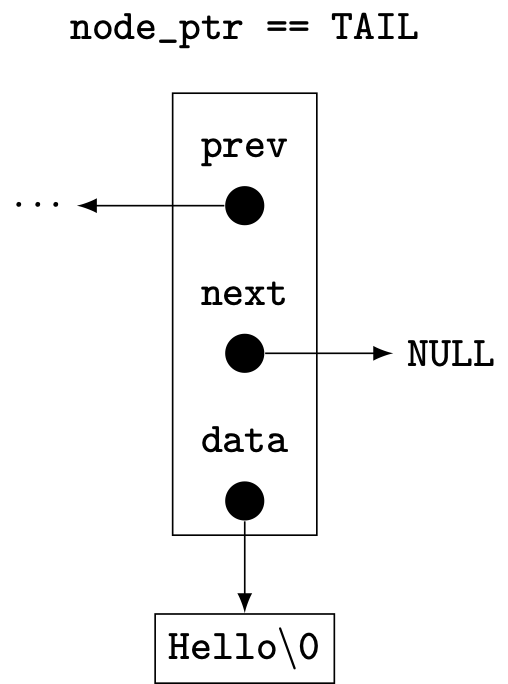
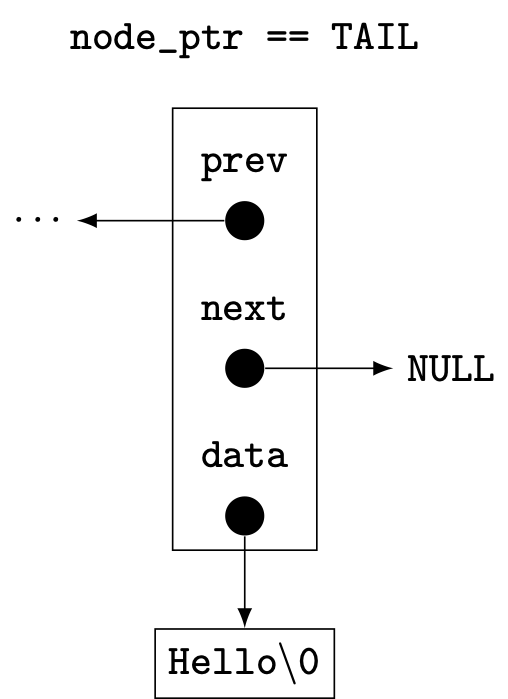
Updates for Friday delivery of lecture 13.

diff --git a/2024/figures/doubly_ll/case3_after.tex b/2024/figures/doubly_ll/case3_after.tex
@@ -32,7 +32,7 @@
       \node[data] at (0,-1.25) (#1 data) {};
       \node[data label] at (0,-0.75) (#1 data label) {data\strut};
 
-      \node[node label,fit={(#1 prev) (#1 prev label) (#1 next) (#1 next label) (#1 data) (#1 data label)},label={[label distance=0.25cm]#2}] (#1) {};
+      \node[node label,fit={(#1 prev) (#1 prev label) (#1 next) (#1 next label) (#1 data) (#1 data label)},label={[label distance=0.25cm]#2\strut}] (#1) {};
     }
   }
 }
@@ -43,7 +43,7 @@
 \begin{tikzpicture}
   \pic at (0,0) {llnode=node_ptr/{node_ptr}};
 
-  \pic at (2,0) {llnode=new_node/{}};
+  \pic at (2,0) {llnode=new_node/{new_node}};
 
   \pic at (4,0) {llnode=new_node2/{}};
 

diff --git a/2024/src/lecture13/double_linked_list.c b/2024/src/lecture13/double_linked_list.c
@@ -34,7 +34,7 @@ struct StringNode *insertNodeRight(struct StringNode *node_ptr, const char *str)
 struct StringNode *insertNodeLeft(struct StringNode *node_ptr, const char *str) {
     struct StringNode *new_node = malloc(sizeof(struct StringNode));  // allocate memory to store new node
     assert(new_node);
-    new_node->data = malloc(sizeof(char) * (strlen(str) + 1));
+    new_node->data = malloc(sizeof(char) * (strlen(str) + 1));        // allocate memory to store string data
     assert(new_node->data);
     strcpy(new_node->data, str);
     if (node_ptr != NULL) {

diff --git a/2024/figures/doubly_ll/case1_after.tex b/2024/figures/doubly_ll/case1_after.tex
@@ -31,7 +31,7 @@
       \node[data] at (0,-1.25) (#1 data) {};
       \node[data label] at (0,-0.75) (#1 data label) {data\strut};
 
-      \node[node label,fit={(#1 prev) (#1 prev label) (#1 next) (#1 next label) (#1 data) (#1 data label)},label={[label distance=0.25cm]#2}] (#1) {};
+      \node[node label,fit={(#1 prev) (#1 prev label) (#1 next) (#1 next label) (#1 data) (#1 data label)},label={[label distance=0.25cm]#2\strut}] (#1) {};
     }
   }
 }

diff --git a/2024/figures/doubly_ll/case1_before.tex b/2024/figures/doubly_ll/case1_before.tex
@@ -28,7 +28,7 @@
       \node[data] at (0,-1.25) (#1 data) {};
       \node[data label] at (0,-0.75) (#1 data label) {data\strut};
 
-      \node[node label,fit={(#1 prev) (#1 prev label) (#1 next) (#1 next label) (#1 data) (#1 data label)},label={[label distance=0.25cm]#1}] (#1) {};
+      \node[node label,fit={(#1 prev) (#1 prev label) (#1 next) (#1 next label) (#1 data) (#1 data label)},label={[label distance=0.25cm]#1\strut}] (#1) {};
     }
   }
 }

diff --git a/2024/figures/doubly_ll/case2_after.tex b/2024/figures/doubly_ll/case2_after.tex
@@ -32,7 +32,7 @@
       \node[data] at (0,-1.25) (#1 data) {};
       \node[data label] at (0,-0.75) (#1 data label) {data\strut};
 
-      \node[node label,fit={(#1 prev) (#1 prev label) (#1 next) (#1 next label) (#1 data) (#1 data label)},label={[label distance=0.25cm]#2}] (#1) {};
+      \node[node label,fit={(#1 prev) (#1 prev label) (#1 next) (#1 next label) (#1 data) (#1 data label)},label={[label distance=0.25cm]#2\strut}] (#1) {};
     }
   }
 }

diff --git a/2024/figures/doubly_ll/case2_before.tex b/2024/figures/doubly_ll/case2_before.tex
@@ -31,7 +31,7 @@
       \node[data] at (0,-1.25) (#1 data) {};
       \node[data label] at (0,-0.75) (#1 data label) {data\strut};
 
-      \node[node label,fit={(#1 prev) (#1 prev label) (#1 next) (#1 next label) (#1 data) (#1 data label)},label={[label distance=0.25cm]#2}] (#1) {};
+      \node[node label,fit={(#1 prev) (#1 prev label) (#1 next) (#1 next label) (#1 data) (#1 data label)},label={[label distance=0.25cm]#2\strut}] (#1) {};
     }
   }
 }

diff --git a/2024/lecture 13 - Double Pointers, Doubly Linked List, Binary Search.md b/2024/lecture 13 - Double Pointers, Doubly Linked List, Binary Search.md
@@ -325,7 +325,7 @@ struct StringNode *insertNodeRight(struct StringNode *node_ptr, const char *str)
 
 # Case 3: `insertNodeRight` general case
 
-`insertNodeRight(node_ptr, "to_the");`
+`struct StringNode *new_node = insertNodeRight(node_ptr, "to_the");`
 
 <div class="columns">
 
@@ -356,7 +356,7 @@ struct StringNode *insertNodeRight(struct StringNode *node_ptr, const char *str)
 struct StringNode *insertNodeRight(struct StringNode *node_ptr, const char *str) {
     struct StringNode *new_node = malloc(sizeof(struct StringNode));  // allocate memory to store new node
     assert(new_node);
-    new_node->data = malloc(sizeof(char) * (strlen(str) + 1));
+    new_node->data = malloc(sizeof(char) * (strlen(str) + 1));        // allocate memory to store string data
     assert(new_node->data);
     strcpy(new_node->data, str);
     if (node_ptr != NULL) {
@@ -526,7 +526,7 @@ int *linear_search(int *array, unsigned length, int search_value) {
 <div style="width: 45%; float:left">
 
 ## "Although the basic idea of binary search is comparatively straightforward, the details can be surprisingly tricky"
-## Donald Knuth, *The Art of Computer Programming*
+### &mdash; Donald Knuth, *The Art of Computer Programming*
 
 </div>
 
